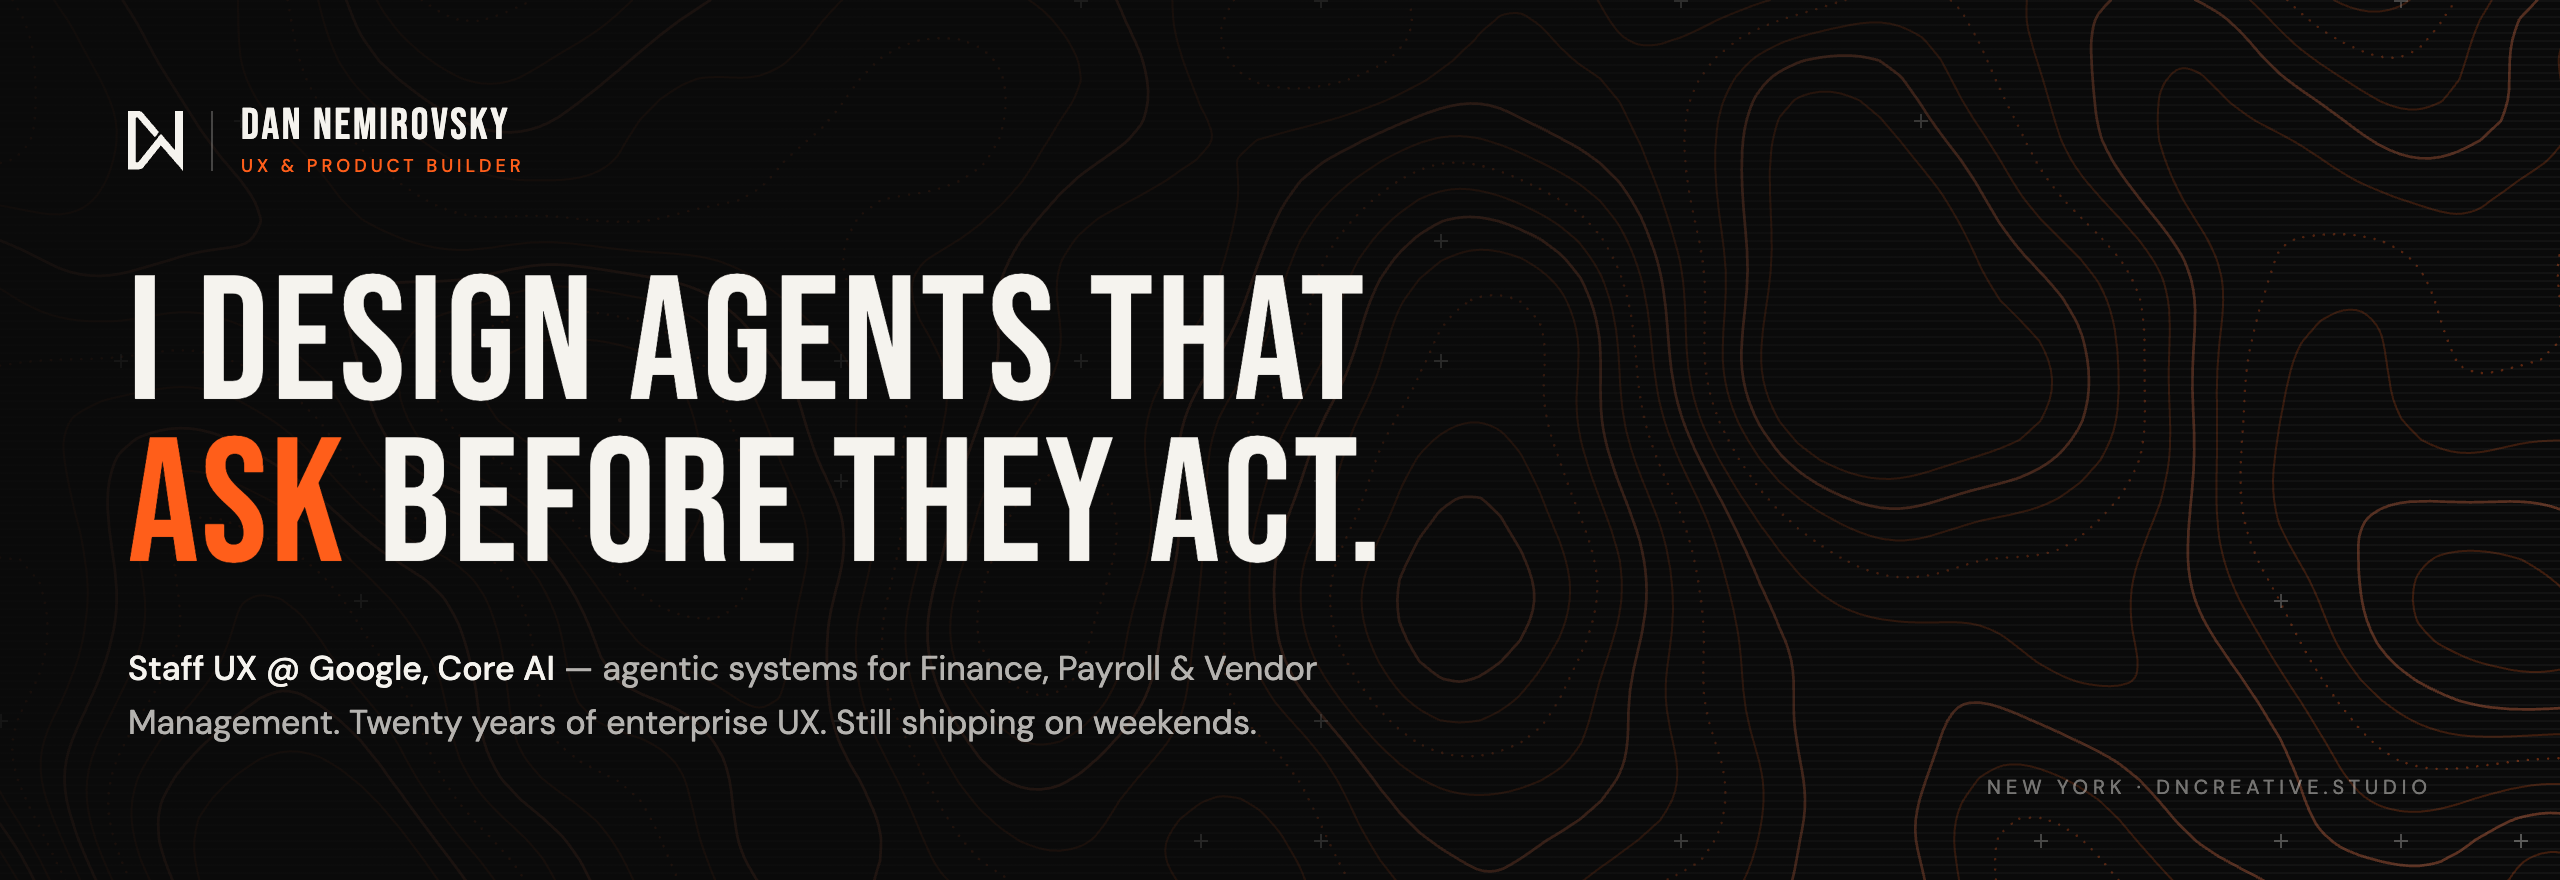
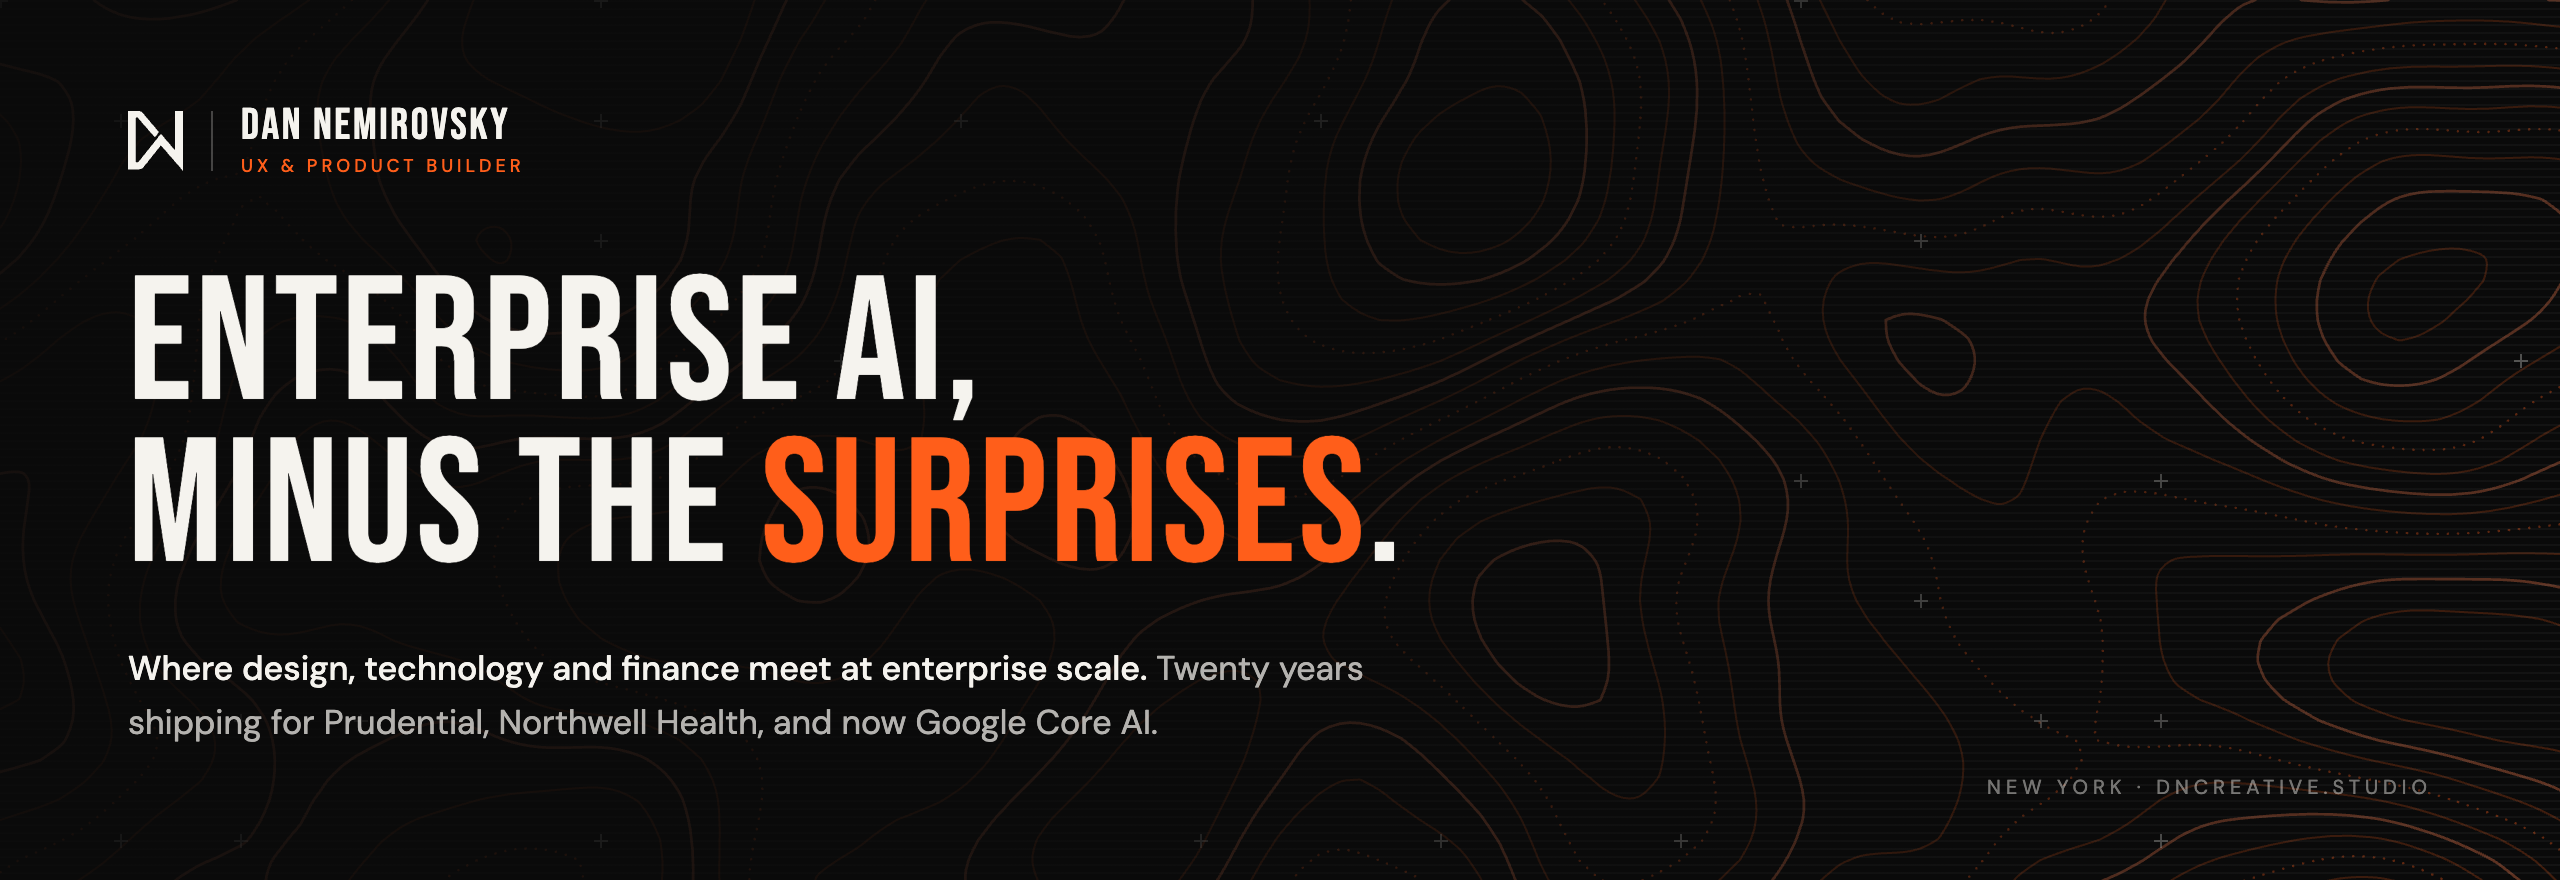
Update profile hero copy

diff --git a/README.md b/README.md
@@ -1,4 +1,4 @@
-<a href="https://dncreative.studio"><img src="assets/banner.png" alt="Dan Nemirovsky — I design agents that ask before they act." width="100%"></a>
+<a href="https://dncreative.studio"><img src="assets/banner.png" alt="Dan Nemirovsky — Enterprise AI, minus the surprises." width="100%"></a>
 
 <br>
 
